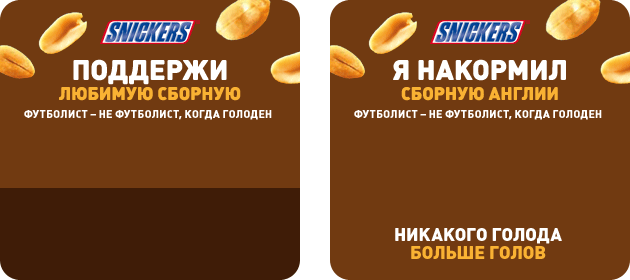
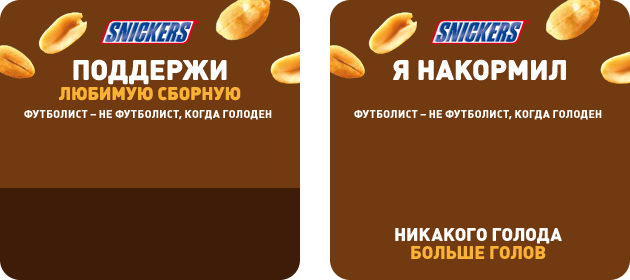
dehardcoded team name

Changed region(s): [[0.6333, 0.2857, 0.9048, 0.3714]]

diff --git a/public/javascripts/templates.js b/public/javascripts/templates.js
@@ -1,1 +1,1 @@
-(function(undefined){SnickersTemplates={"widget-results.jade":function anonymous(locals,attrs,escape,rethrow){var attrs=jade.attrs,escape=jade.escape,rethrow=jade.rethrow,buf=[];with(locals||{}){var interp;buf.push("<div"),buf.push(attrs({"class":"widget-snickers widget-s-result"},{})),buf.push("><div"),buf.push(attrs({"class":"flag-result"},{})),buf.push("><img"),buf.push(attrs({src:"/images/flags/"+country.flag+".png",alt:country.name},{src:!0,alt:!0})),buf.push("/></div><div"),buf.push(attrs({"class":"widget-foot"},{})),buf.push("><div"),buf.push(attrs({"class":"widget-social-box"},{})),buf.push("><div"),buf.push(attrs({"class":"social-icons-big"},{})),buf.push("><a"),buf.push(attrs({target:"_blank",href:"https://www.facebook.com/sharer/sharer.php?s=100&p[url]="+enc("http://www.sports.ru/#snickers_iframe")+"&p[summary]="+enc("Поддержи любимую сборную! Футболист - не футболист, когда голоден.")+"&p[title]="+enc("Я накормил сборную "+country.accusative+"!")+"&[images][0]="+enc("http://s5o.ru/common/images/snickers.jpg")+"","class":"soc fb"},{target:!0,href:!0})),buf.push("></a><a"),buf.push(attrs({target:"_blank",href:"http://vk.com/share.php?url="+enc("http://www.sports.ru/#snickers_iframe")+"&description="+enc("Поддержи любимую сборную! Футболист - не футболист, когда голоден.")+"&image="+enc("http://s5o.ru/common/images/snickers.jpg")+"&title="+enc("Я накормил сборную "+country.accusative+"!")+"","class":"soc vk"},{target:!0,href:!0})),buf.push("></a><a"),buf.push(attrs({target:"_blank",href:"https://twitter.com/intent/tweet?&text="+enc("Я накормил сборную "+country.accusative+"!")+"&url="+enc("http://www.sports.ru/#snickers_iframe")+"","class":"soc tw"},{target:!0,href:!0})),buf.push('></a></div></div></div><!-- country.accusative--><script>Cufon.replace(".widget-snickers .accusative-name</script></div>')}return buf.join("")},"widget-vote.jade":function anonymous(locals,attrs,escape,rethrow){var attrs=jade.attrs,escape=jade.escape,rethrow=jade.rethrow,buf=[];with(locals||{}){var interp,flag_small_mixin=function(a){var b=this.block;buf.push("<i"),buf.push(attrs({"data-id":a._id,alt:a.name,title:a.name,"class":"flag-s "+("flag-"+a.flag+"")},{"class":!0,"data-id":!0,alt:!0,title:!0})),buf.push("></i>")},flag_big_mixin=function(a){var b=this.block;buf.push("<div"),buf.push(attrs({"class":"scroll-item-f"},{})),buf.push("><img"),buf.push(attrs({src:"/images/flags/"+a.flag+".png",alt:a.name},{src:!0,alt:!0})),buf.push("/><span"),buf.push(attrs({"class":"counter"},{})),buf.push(">");var c=a.rating;buf.push(escape(null==c?"":c)),buf.push("</span></div>")},flags_dropdown_mixin=function(a){var b=this.block;buf.push("<div"),buf.push(attrs({style:"display:none;","class":"flag-select-dropdown"},{style:!0})),buf.push("><i"),buf.push(attrs({"class":"fs-top"},{})),buf.push("></i><div"),buf.push(attrs({"class":"fs-box"},{})),buf.push(">"),function(){if("number"==typeof a.length)for(var b=0,c=a.length;b<c;b++){var d=a[b];flag_small_mixin(d)}else for(var b in a){var d=a[b];flag_small_mixin(d)}}.call(this),buf.push("</div><i"),buf.push(attrs({"class":"fs-bot"},{})),buf.push("></i></div>")},scrolling_flags_mixin=function(a){var b=this.block;buf.push("<div"),buf.push(attrs({"class":"scrolling-flags"},{})),buf.push("><span"),buf.push(attrs({"class":"prevPage browse left disabled"},{})),buf.push(">Пред.</span><span"),buf.push(attrs({"class":"nextPage browse right"},{})),buf.push(">След.</span><div"),buf.push(attrs({"class":"scrollable-flag"},{})),buf.push("><div"),buf.push(attrs({"class":"items-f"},{})),buf.push(">");for(var c=0;c<16;c+=3){buf.push("<div"),buf.push(attrs({"class":"chunk"},{})),buf.push(">");for(var d=c;d<=c+2&&a[d];d++)flag_big_mixin(a[d]);buf.push("</div>")}buf.push("</div></div></div>")};buf.push("<div"),buf.push(attrs({"class":"widget-snickers"},{})),buf.push("><form"),buf.push(attrs({action:"#","class":"send-snickers"},{action:!0})),buf.push("><span"),buf.push(attrs({"class":"flag-select"},{})),buf.push(">"),flag_small_mixin(countries[random]),buf.push("</span><input"),buf.push(attrs({type:"button",value:"","class":"send-s-but"},{type:!0,value:!0})),buf.push("/>"),flags_dropdown_mixin(countries),buf.push("</form><div"),buf.push(attrs({"class":"widget-foot"},{})),buf.push(">"),scrolling_flags_mixin(countries),buf.push('</div><script>Cufon.replace(".widget-snickers .counter");</script></div>')}return buf.join("")}}})()
+(function(undefined){SnickersTemplates={"widget-results.jade":function anonymous(locals,attrs,escape,rethrow){var attrs=jade.attrs,escape=jade.escape,rethrow=jade.rethrow,buf=[];with(locals||{}){var interp;buf.push("<div"),buf.push(attrs({"class":"widget-snickers widget-s-result"},{})),buf.push("><span"),buf.push(attrs({"class":"widget-tesult-text"},{})),buf.push(">СБОРНУЮ "+escape((interp=country.accusative)==null?"":interp)+"</span><div"),buf.push(attrs({"class":"flag-result"},{})),buf.push("><img"),buf.push(attrs({src:"/images/flags/"+country.flag+".png",alt:country.name},{src:!0,alt:!0})),buf.push("/></div><div"),buf.push(attrs({"class":"widget-foot"},{})),buf.push("><div"),buf.push(attrs({"class":"widget-social-box"},{})),buf.push("><div"),buf.push(attrs({"class":"social-icons-big"},{})),buf.push("><a"),buf.push(attrs({target:"_blank",href:"https://www.facebook.com/sharer/sharer.php?s=100&p[url]="+enc("http://www.sports.ru/#snickers_iframe")+"&p[summary]="+enc("Поддержи любимую сборную! Футболист - не футболист, когда голоден.")+"&p[title]="+enc("Я накормил сборную "+country.accusative+"!")+"&[images][0]="+enc("http://s5o.ru/common/images/snickers.jpg")+"","class":"soc fb"},{target:!0,href:!0})),buf.push("></a><a"),buf.push(attrs({target:"_blank",href:"http://vk.com/share.php?url="+enc("http://www.sports.ru/#snickers_iframe")+"&description="+enc("Поддержи любимую сборную! Футболист - не футболист, когда голоден.")+"&image="+enc("http://s5o.ru/common/images/snickers.jpg")+"&title="+enc("Я накормил сборную "+country.accusative+"!")+"","class":"soc vk"},{target:!0,href:!0})),buf.push("></a><a"),buf.push(attrs({target:"_blank",href:"https://twitter.com/intent/tweet?&text="+enc("Я накормил сборную "+country.accusative+"!")+"&url="+enc("http://www.sports.ru/#snickers_iframe")+"","class":"soc tw"},{target:!0,href:!0})),buf.push('></a></div></div></div><!-- country.accusative--><script>Cufon.replace(".widget-snickers .widget-tesult-text");</script></div>')}return buf.join("")},"widget-vote.jade":function anonymous(locals,attrs,escape,rethrow){var attrs=jade.attrs,escape=jade.escape,rethrow=jade.rethrow,buf=[];with(locals||{}){var interp,flag_small_mixin=function(a){var b=this.block;buf.push("<i"),buf.push(attrs({"data-id":a._id,alt:a.name,title:a.name,"class":"flag-s "+("flag-"+a.flag+"")},{"class":!0,"data-id":!0,alt:!0,title:!0})),buf.push("></i>")},flag_big_mixin=function(a){var b=this.block;buf.push("<div"),buf.push(attrs({"class":"scroll-item-f"},{})),buf.push("><img"),buf.push(attrs({src:"/images/flags/"+a.flag+".png",alt:a.name},{src:!0,alt:!0})),buf.push("/><span"),buf.push(attrs({"class":"counter"},{})),buf.push(">");var c=a.rating;buf.push(escape(null==c?"":c)),buf.push("</span></div>")},flags_dropdown_mixin=function(a){var b=this.block;buf.push("<div"),buf.push(attrs({style:"display:none;","class":"flag-select-dropdown"},{style:!0})),buf.push("><i"),buf.push(attrs({"class":"fs-top"},{})),buf.push("></i><div"),buf.push(attrs({"class":"fs-box"},{})),buf.push(">"),function(){if("number"==typeof a.length)for(var b=0,c=a.length;b<c;b++){var d=a[b];flag_small_mixin(d)}else for(var b in a){var d=a[b];flag_small_mixin(d)}}.call(this),buf.push("</div><i"),buf.push(attrs({"class":"fs-bot"},{})),buf.push("></i></div>")},scrolling_flags_mixin=function(a){var b=this.block;buf.push("<div"),buf.push(attrs({"class":"scrolling-flags"},{})),buf.push("><span"),buf.push(attrs({"class":"prevPage browse left disabled"},{})),buf.push(">Пред.</span><span"),buf.push(attrs({"class":"nextPage browse right"},{})),buf.push(">След.</span><div"),buf.push(attrs({"class":"scrollable-flag"},{})),buf.push("><div"),buf.push(attrs({"class":"items-f"},{})),buf.push(">");for(var c=0;c<16;c+=3){buf.push("<div"),buf.push(attrs({"class":"chunk"},{})),buf.push(">");for(var d=c;d<=c+2&&a[d];d++)flag_big_mixin(a[d]);buf.push("</div>")}buf.push("</div></div></div>")};buf.push("<div"),buf.push(attrs({"class":"widget-snickers"},{})),buf.push("><form"),buf.push(attrs({action:"#","class":"send-snickers"},{action:!0})),buf.push("><span"),buf.push(attrs({"class":"flag-select"},{})),buf.push(">"),flag_small_mixin(countries[random]),buf.push("</span><input"),buf.push(attrs({type:"button",value:"","class":"send-s-but"},{type:!0,value:!0})),buf.push("/>"),flags_dropdown_mixin(countries),buf.push("</form><div"),buf.push(attrs({"class":"widget-foot"},{})),buf.push(">"),scrolling_flags_mixin(countries),buf.push('</div><script>Cufon.replace(".widget-snickers .counter");</script></div>')}return buf.join("")}}})()

diff --git a/public/stylesheets/snickers.css b/public/stylesheets/snickers.css
@@ -6,6 +6,7 @@
 .send-snickers .flag-select > .flag-s {margin:7px 0 0 10px; vertical-align:top;}
 .send-snickers .send-s-but {background:url(/images/snickers/but.png) no-repeat 0 0; width:148px; height:46px; display:block; float:left; border:0; margin:0 0 0 -8px; cursor:pointer;}
 .flag-select-dropdown {width:238px; position:absolute; top:40px; left:0; z-index:30;}
+.widget-tesult-text {display:block; width:100%; position:absolute; top:84px; left:0; text-align:center; color:#f9b233; font-size:18px; line-height:15px;text-transform:uppercase;}
 .fs-top, .fs-bot, .fs-box {background-image:url(/images/snickers/select-bg.png); background-repeat:no-repeat;}
 .fs-top, .fs-bot {display:block; height:14px; background-position:0 0;}
 .fs-bot {background-position:0 -16px;}
